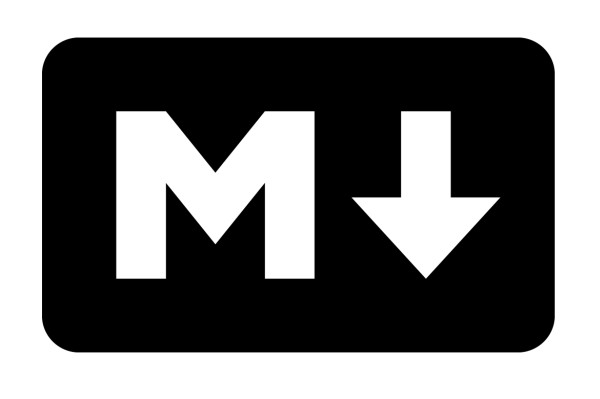
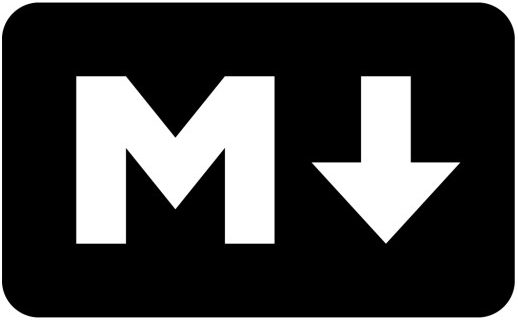
closer

diff --git a/index.html b/index.html
@@ -124,7 +124,7 @@
 							</div>
 						</section>
 						<section>
-							<a href="#" class="image"><img src="images/5.png" alt="" data-position="top center" /></a>
+							<a href="#" class="image"><img src="images/5.jpg" alt="" data-position="top center" /></a>
 							<div class="content">
 								<div class="inner">
 									<h2>The Markdown Language: Learning Markdown in Atom</h2>
